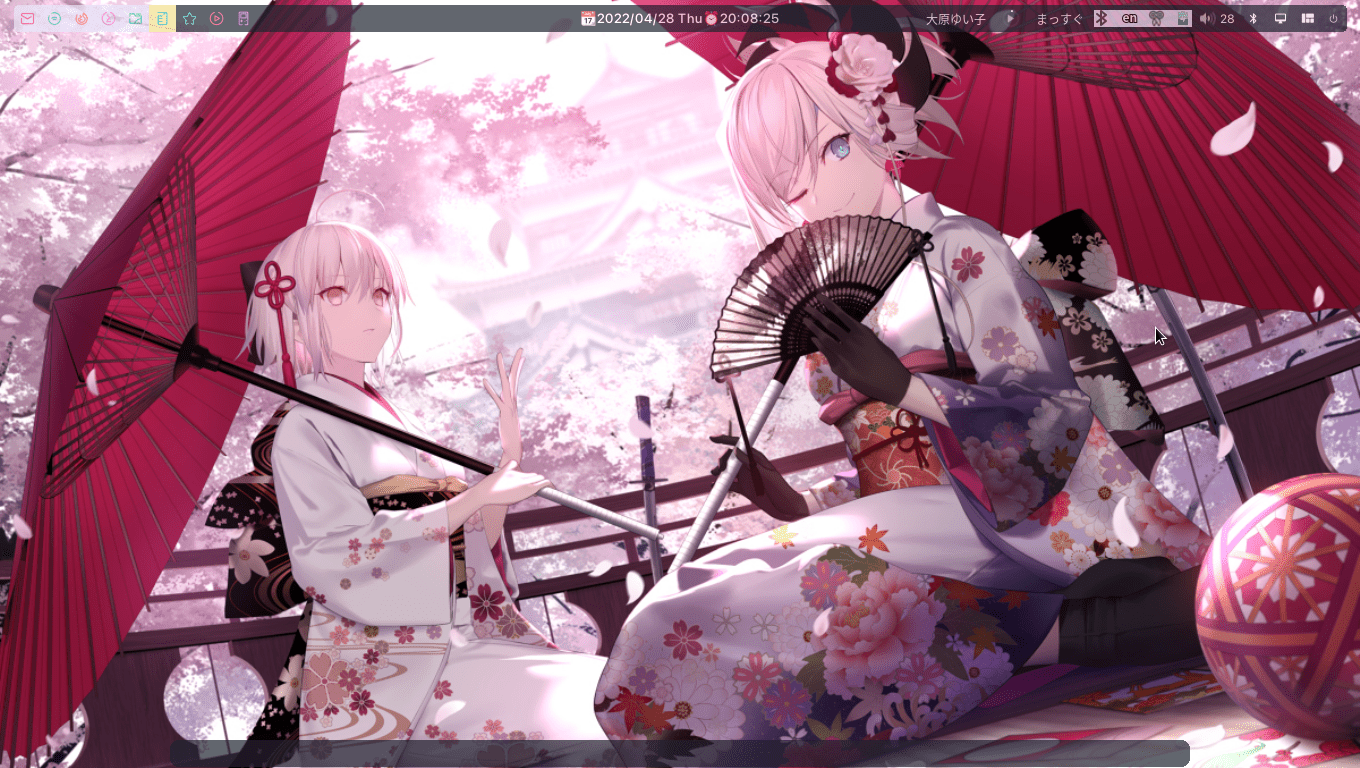
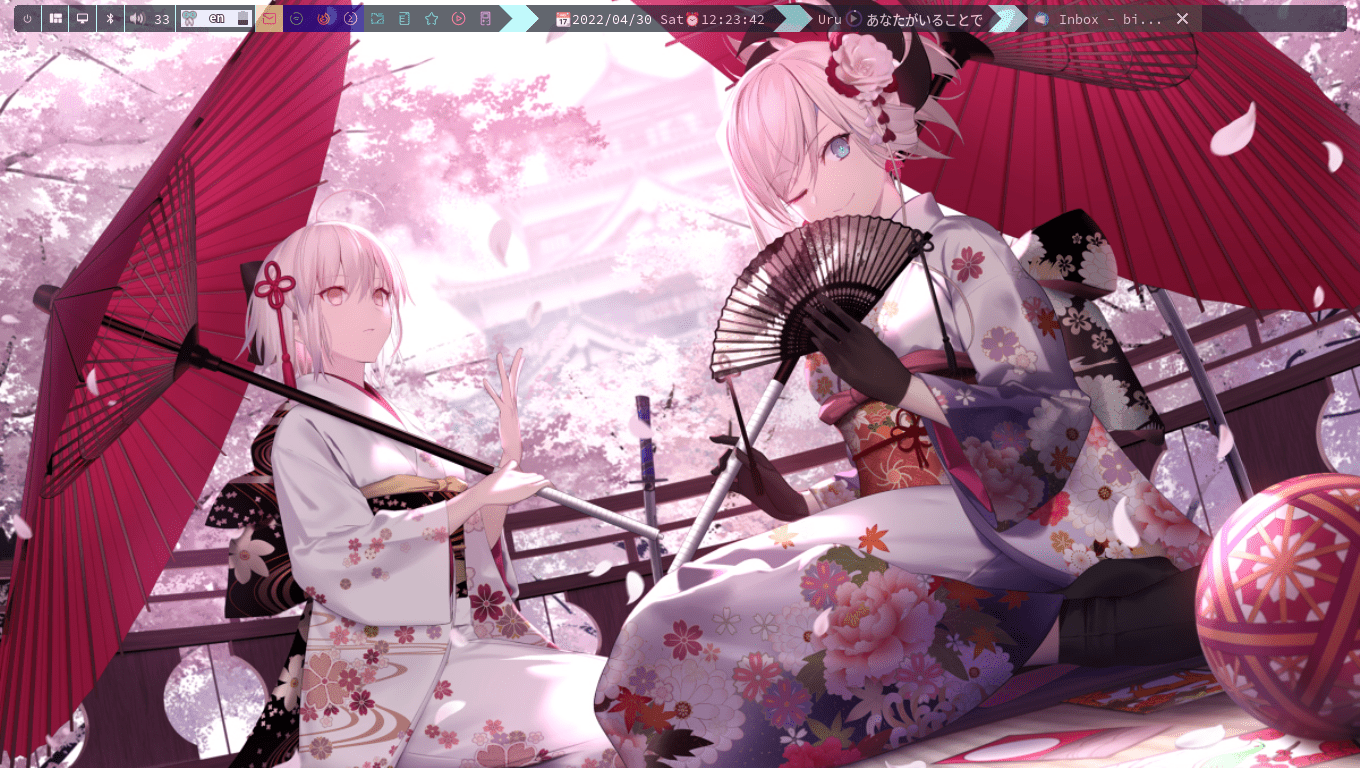
Update README.md, some screenshots.

diff --git a/README.md b/README.md
@@ -54,9 +54,11 @@ I have also changed the pager for `man`. Now I use `vim` as pager. You can check
 
 ![](/screenshot/newlayout.png)
 
-## 2022/04/30 Removed bottom-panel, merged tasklist to top-panel, and redesigned top-panel.
+## 2022/04/30 Removed bottom-panel, merged tasklist to top-panel, redesigned top-panel, and change theme font.
 
 ![](/screenshot/newlayout2.png)
+
+I use [SauceCodePro Nerd Font](https://github.com/ryanoasis/nerd-fonts/tree/master/patched-fonts/SourceCodePro) to avoid widgets keeping moving left and right. Due to SauceCodePro Nerd Font is Monospaced font. 
 
 ---
 
